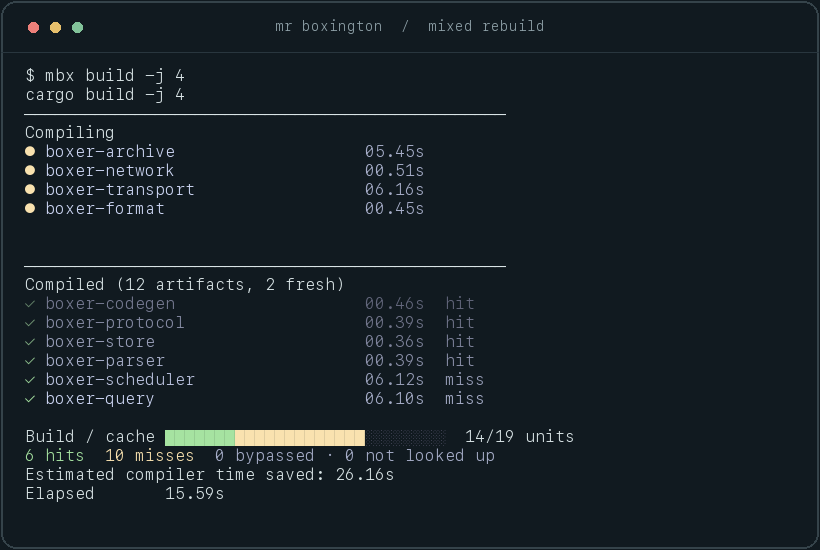
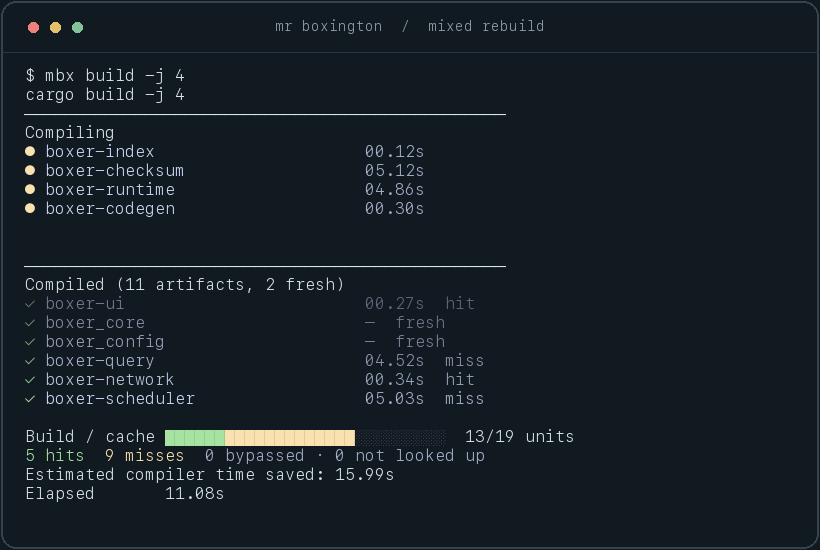
docs: start the demo with the mixed rebuild
Entire-Checkpoint: 01M28G7DYGXGSGEVAVZ7WPAZ63

diff --git a/docs/.vitepress/theme/HomeBuild.vue b/docs/.vitepress/theme/HomeBuild.vue
@@ -32,7 +32,7 @@ const paused = ref(false);
         />
       </picture>
       <figcaption>
-        A real cold build, one shared-source edit, then a rebuild with fresh crates, cache hits, and misses. Adapted from
+        A real rebuild after a shared-source edit, with fresh crates, cache hits, and misses. Adapted from
         <a href="https://github.com/romancitodev/cargo-pretty">cargo-pretty</a>
         by romancitodev.
         <button type="button" :aria-pressed="paused" @click="paused = !paused">

diff --git a/scripts/record-cargo-pretty.py b/scripts/record-cargo-pretty.py
@@ -76,7 +76,7 @@ def main():
             stream.feed(bytes(pending_frame[:finish]))
             del pending_frame[:finish]
     stream.feed(b"$ mbx build -j 4\r\n")
-    frames = [render(screen, font, title_font, "1 / cold build")]
+    frames = [render(screen, font, title_font)]
     durations = [700]
     with tempfile.TemporaryDirectory(prefix="mbx-pretty-demo-") as tmp:
         root = Path(tmp)
@@ -123,32 +123,20 @@ def main():
                         raise
                     if not chunk: break
                     warm_output.extend(chunk)
-                    feed_frame(chunk)
-                now = time.monotonic()
-                if now - last_warm_frame >= .08:
-                    frames.append(render(screen, font, title_font, "1 / cold build"))
-                    durations.append(round((now - last_warm_frame) * 1000))
-                    last_warm_frame = now
                 if warm.poll() is not None and not ready: break
             assert warm.wait(timeout=5) == 0, warm_output
         finally:
             if warm.poll() is None: warm.kill(); warm.wait()
             os.close(warm_master)
         # Retain two Cargo-fresh crates; clean the others so mbx can restore
-        # matching results and compile the entries removed from this demo cache.
+        # unchanged results and compile the crates affected by the source edit.
         cargo = subprocess.check_output(["rustup", "which", "cargo"], text=True).strip()
         packages = ["hello-boxington", *crates[2:]]
         subprocess.run([cargo, "clean", *[arg for name in packages for arg in ("-p", name)]], cwd=root, env=env, check=True, capture_output=True)
         cold_stats = json.loads((root / "stats.json").read_text())
         assert cold_stats["hits"] == 0 and cold_stats["misses"] + cold_stats.get("unconsulted", 0) > 0
-        frames.append(render(screen, font, title_font, "1 / cold build"))
-        durations.append(1800)
         # One actual shared-source edit invalidates its eight consumers.
         (root / "shared.rs").write_text("pub fn revision() -> u32 { 2 }\n")
-        stream.feed(b"\x1b[2J\x1b[HShared source edit: revision 1 -> 2\r\n\r\nEight crates include shared.rs.\r\nRebuild outputs; keep the cache and two Cargo-fresh crates.\r\n")
-        frames.append(render(screen, font, title_font, "2 / one source edit"))
-        durations.append(2400)
-        stream.feed(b"\x1b[2J\x1b[H$ mbx build -j 4\r\n")
         poster = None
         poster_score = -1
         master, slave = pty.openpty()

diff --git a/README.md b/README.md
@@ -59,7 +59,7 @@ Set `CARGO_TERM_PROGRESS_WHEN=never` to disable the display.
 
 <picture>
   <source media="(prefers-reduced-motion: reduce)" srcset="docs/public/screenshots/cargo-pretty.png">
-  <img src="docs/public/screenshots/cargo-pretty.gif" alt="A real cold build, shared-source edit, and mixed-cache rebuild with per-crate outcomes">
+  <img src="docs/public/screenshots/cargo-pretty.gif" alt="A real mixed-cache rebuild after a shared-source edit, with per-crate outcomes">
 </picture>
 
 [View the still image](docs/public/screenshots/cargo-pretty.png).
